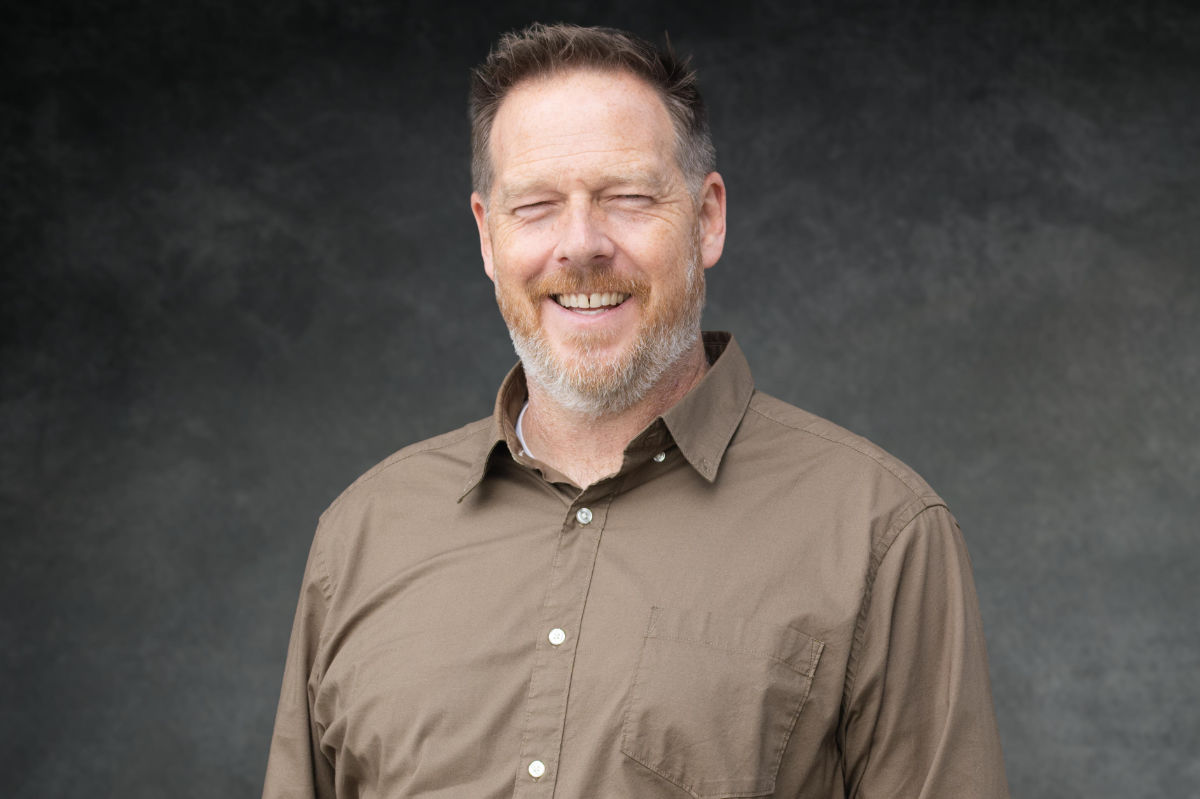
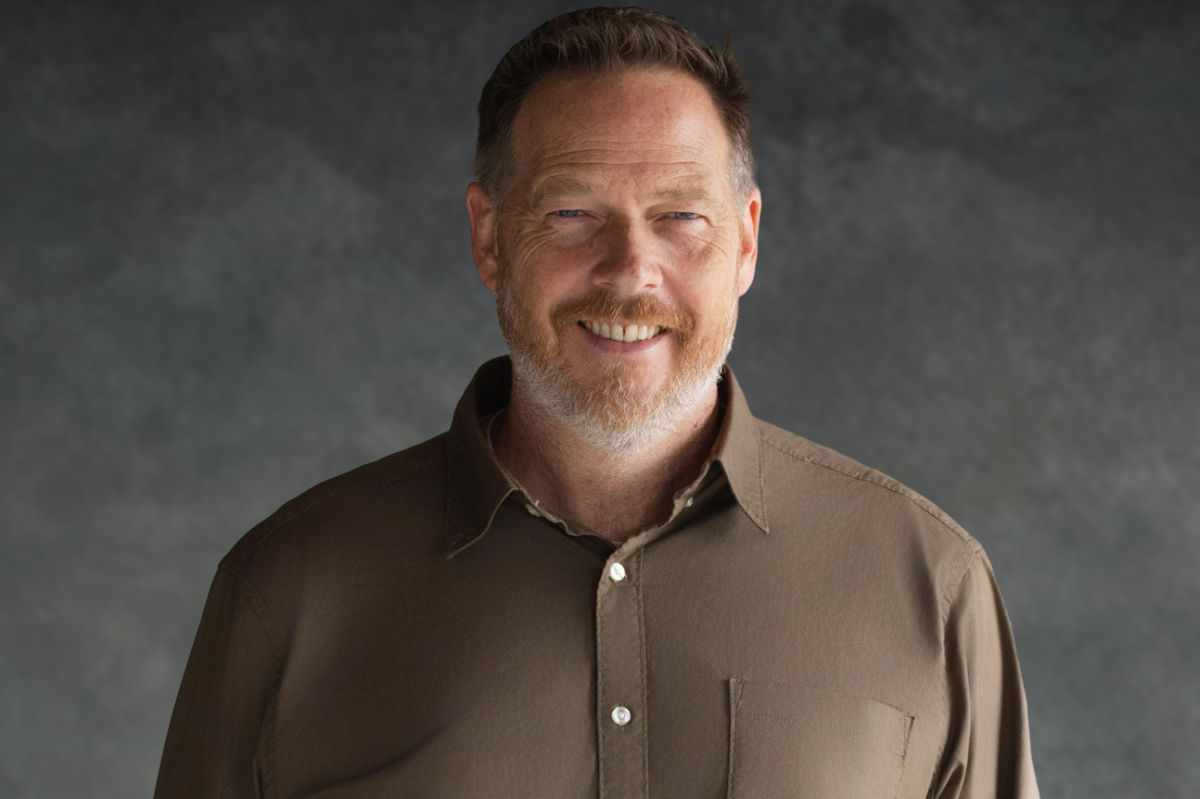
Update Markus photo and fix View Events button visibility
- Replace Markus headshot with new image
- Fix image path case (Markus.jpg -> markus.jpg)
- Change View Events button to white bg on blue section

🤖 Generated with [Claude Code](https://claude.com/claude-code)

diff --git a/src/pages/About.jsx b/src/pages/About.jsx
@@ -9,7 +9,7 @@ const About = () => {
     {
       name: 'Markus',
       role: 'Lead Pastor',
-      image: '/Markus.jpg',
+      image: '/markus.jpg',
       bio: 'Markus has been serving as Lead Pastor at Mount Soledad Presbyterian Church, bringing a passion for biblical teaching and shepherding the congregation. His heart is to help people encounter the transforming love of Jesus and grow as disciples.',
     },
     {
@@ -411,7 +411,7 @@ const About = () => {
               <motion.button
                 whileHover={{ scale: 1.05 }}
                 whileTap={{ scale: 0.95 }}
-                className="px-8 py-4 bg-primary text-white rounded-lg font-semibold text-lg shadow-xl hover:shadow-2xl hover:bg-primary-dark transition-all duration-300"
+                className="px-8 py-4 bg-white text-primary rounded-lg font-semibold text-lg shadow-xl hover:shadow-2xl hover:bg-gray-100 transition-all duration-300"
               >
                 View Events
               </motion.button>
